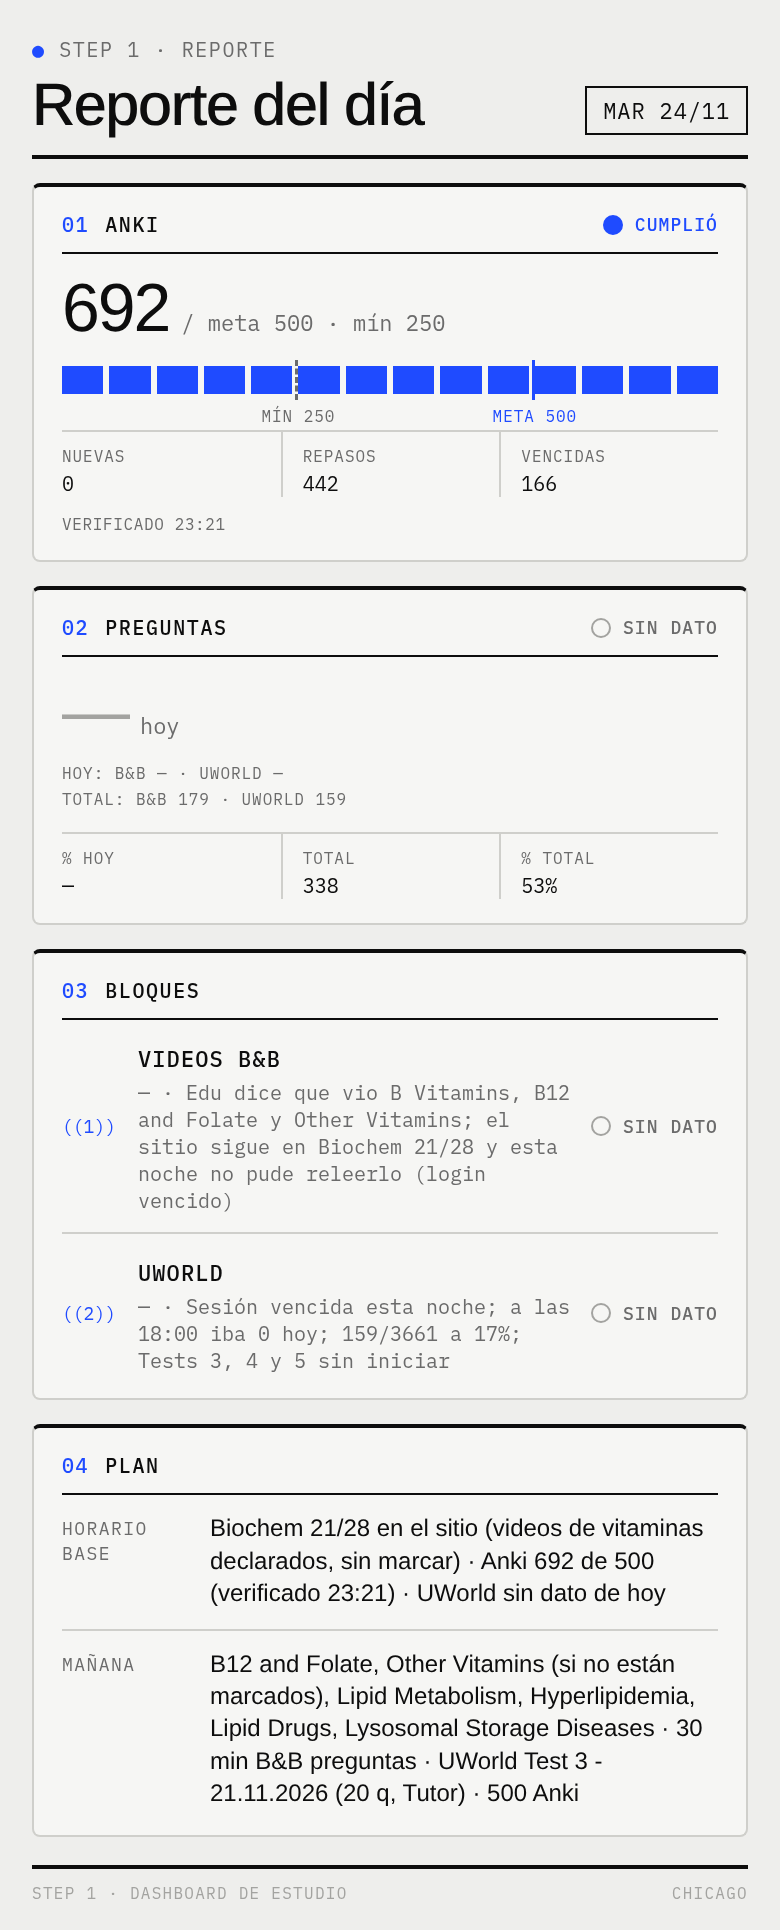
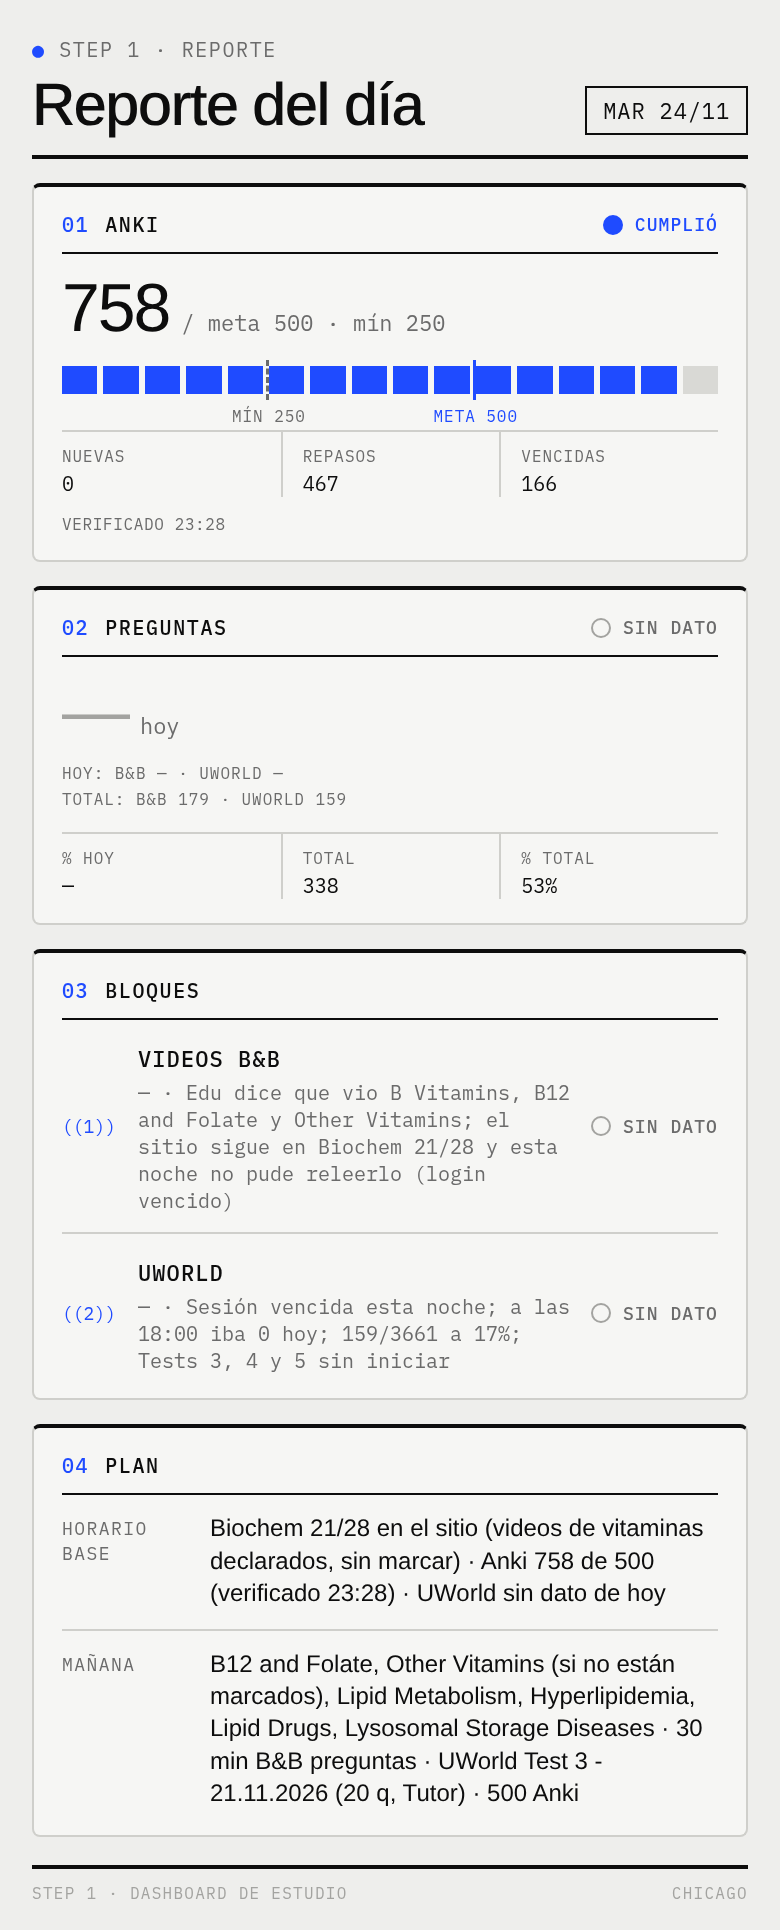
Reporte 2026-11-24: Anki verificado 758

diff --git a/index.html b/index.html
@@ -5,7 +5,7 @@
   index_backup_pre_cards_2026-11-17.html (versión teenage engineering).
   Estilo: capa "teenage engineering" al final del <style> (paneles con borde, numeración 00–10, marcadores ((n))).
   Regla: en pantalla NO se muestran notas de fuente/procedencia; solo el timestamp de #upd.
-  Fuentes (solo para mantenimiento): Anki = Mac "Eduardos MacBook Air" conectado; AnkiConnect v6 a las 24/11 23:21 (sync ok, luego una sola llamada multi). reviews=692, unique=442, new=0, review_cards=442 (is:review rated:1), introduced=128, rated:1:1=47, again presses=54 (stats HTML: "Studied 692 cards in 148.95 minutes today (12.91s/card). Again count: 54 (92.2% correct). Learn: 338, Review: 314, Relearn: 40, Filtered: 0."). is:due=166 (AnKing 166, Eduche 0). getDeckStats: AnKing new 43 / learn 3 / review 163; Eduche new 0 / learn 0 / review 0 (total_in_deck 0, no usado; vencidas de is:due). ANKI_HOY reviews=692, again=54, again_cards=47, again_pct=8 (conteo AnkiConnect 24/11 23:21). H["2026-11-22"]=274, H["2026-11-23"]=196, H["2026-11-24"]=692.
+  Fuentes (solo para mantenimiento): Anki = Mac "Eduardos MacBook Air" conectado; AnkiConnect v6 a las 24/11 23:28 (sync ok, luego una sola llamada multi). reviews=758, unique=467, new=0, review_cards=467 (is:review rated:1), introduced=153, rated:1:1=56, again presses=65 (stats HTML: "Studied 758 cards in 155.87 minutes today (12.34s/card). Again count: 65 (91.4% correct). Learn: 404, Review: 314, Relearn: 40, Filtered: 0."). is:due=166 (AnKing 166, Eduche 0). getDeckStats: AnKing new 43 / learn 3 / review 163; Eduche new 0 / learn 0 / review 0 (total_in_deck 0, no usado; vencidas de is:due). ANKI_HOY reviews=758, again=65, again_cards=56, again_pct=9 (conteo AnkiConnect 24/11 23:28). H["2026-11-22"]=274, H["2026-11-23"]=196, H["2026-11-24"]=758.
   B&B = no se pudo releer a las 24/11 18:00: https://www.boardsbeyond.com/dashboard redirigió a https://www.boardsbeyond.com/login. Cifras en pantalla = última lectura verificada 23/11 22:30 (reconfirmada 24/11 07:13): 174 de 3701, quiz 84.0%, Step 1-P 7%. Biochem 21/28, 141/140 a 87% (Quizzes 87.2%), siguiente B12 and Folate. Quizzes del 23/11: Phenylalanine and Tyrosine 3/5, Other Amino Acids 4/5 (más un 0/5 abierto sin responder, no tocado), Ammonia 3/5 luego 5/5, B Vitamins 5/5. Día 23/11: 25 respondidas, 20 correctas. TODAY_Q.bb = null (no se leyó el historial a las 24/11 18:00).
   UWorld = lectura 24/11 18:00 (Launch STEP 1 QBank solamente): QBank 159/3661, Question Score 17%, Test Count 2/6. Ronda actual: único completado #2 19/11 10/20 (50%). Sin iniciar: Test 3 (20 q), Test 4 (20 q), Test 5 - 23.11.2026 (19 q) y Test Semanal 1 (40 q). 0 preguntas contestadas el 24/11. TODAY_Q.uw = 0. UWSA 1–3 sin activar.
   Plan/horario: martes 24/11 = 7h17 (Anki 500, videos B&B 2h17 para cerrar Biochem: B12 & Folate, Other Vitamins, Lipid Metabolism, Hyperlipidemia, Lipid Drugs, Lysosomal Storage; si B Vitamins no está marcada, esa primero; 30 min preguntas B&B; 1h UWorld Test 3 de 20 q Tutor). Biochem en pantalla 21/28 según lectura 23/11 22:30 (no reconfirmado a las 24/11 18:00; login vencido).
@@ -339,7 +339,7 @@ details summary .lbl{margin-left:auto}
   <div><div class="brand"><span><i>●</i> step&nbsp;1</span><span>usmle</span><span>rev. 2026</span></div><h1>Inicio</h1></div>
   <div class="top-meta">
     <button type="button" id="refresh" aria-label="Refresh">↻ REFRESH</button>
-    <span id="upd">Actualizado 24/11 23:21</span>
+    <span id="upd">Actualizado 24/11 23:28</span>
   </div>
 </header>
 
@@ -350,12 +350,12 @@ details summary .lbl{margin-left:auto}
 <!-- ANKI HOY: anillo (data-done / data-goal) -->
 <section class="card ringwrap" id="s-anki">
   <h2 style="align-self:stretch"><span><em class="no">00</em>Anki hoy</span> <i>●</i></h2>
-  <div id="ring" data-done="692" data-goal="500"></div>
+  <div id="ring" data-done="758" data-goal="500"></div>
   <span class="badge" id="ringbadge"></span>
   <div class="kvs">
-    <div class="kv"><span>Distintas</span><b>442</b></div>
+    <div class="kv"><span>Distintas</span><b>467</b></div>
     <div class="kv"><span>Nuevas</span><b>0</b></div>
-    <div class="kv"><span>Repasos</span><b>442</b></div>
+    <div class="kv"><span>Repasos</span><b>467</b></div>
     <div class="kv"><span>Vencidas</span><b>166</b></div>
     <div class="kv" id="anki-again"></div>
   </div>
@@ -474,7 +474,7 @@ details summary .lbl{margin-left:auto}
 <!-- CONEXIONES: oculto en pantalla (hidden), se mantiene para los routines -->
 <section id="s-con" hidden>
 <table><tbody>
-<tr><td><b>Anki (MacBook Air)</b><br><small>AnkiConnect v6 a las 24/11 23:21 (tras sync). Hoy 692 revisiones (148.95 min, 12.91 s/card); 442 distintas, 0 nuevas, 442 repasos; introduced 128. is:due 166 (AnKing 166, Eduche 0). Again 54 (8%).</small></td><td><span class="pill ok">Conectado</span></td></tr>
+<tr><td><b>Anki (MacBook Air)</b><br><small>AnkiConnect v6 a las 24/11 23:28 (tras sync). Hoy 758 revisiones (155.87 min, 12.34 s/card); 467 distintas, 0 nuevas, 467 repasos; introduced 153. is:due 166 (AnKing 166, Eduche 0). Again 65 (9%).</small></td><td><span class="pill ok">Conectado</span></td></tr>
 <tr><td><b>UWorld</b><br><small>Lectura 24/11 18:00: 159/3661, 17%; Test 3, Test 4, Test 5 (19 q) y Semanal 1 sin iniciar. #2 10/20 (50%). UWSA sin activar. 0 preguntas hoy.</small></td><td><span class="pill ok">Conectado</span></td></tr>
 <tr><td><b>Boards &amp; Beyond</b><br><small>Login requerido a las 24/11 18:00 (también a las 07:09). Última lectura 23/11 22:30: 21/28, 174/3701 a 84.0%, Step 1 7%, siguiente B12 and Folate (B Vitamins quiz 5/5, marca incierta). TODAY_Q.bb no leído.</small></td><td><span class="pill wa">Sesión expirada</span></td></tr>
 <tr><td><b>Google Sheets (tracker)</b><br><small>Aún no conectado.</small></td><td><span class="pill wa">Sin conexión</span></td></tr>
@@ -578,7 +578,7 @@ function draw(){document.getElementById("seg").innerHTML=F.map(x=>`<button class
 /* fechas límite (cuenta regresiva en días, calculada) */
 const D={examen:"2027-04-30",uworld:"2027-04-29"};
 
-const H={"2026-10-31":44,"2026-11-02":73,"2026-11-03":87,"2026-11-04":4,"2026-11-05":229,"2026-11-07":226,"2026-11-10":205,"2026-11-11":310,"2026-11-12":346,"2026-11-13":303,"2026-11-14":552,"2026-11-15":239,"2026-11-16":430,"2026-11-17":635,"2026-11-18":624,"2026-11-19":172,"2026-11-20":0,"2026-11-21":837,"2026-11-22":274,"2026-11-23":196,"2026-11-24":692}; /* verificado 23:21 AnkiConnect */
+const H={"2026-10-31":44,"2026-11-02":73,"2026-11-03":87,"2026-11-04":4,"2026-11-05":229,"2026-11-07":226,"2026-11-10":205,"2026-11-11":310,"2026-11-12":346,"2026-11-13":303,"2026-11-14":552,"2026-11-15":239,"2026-11-16":430,"2026-11-17":635,"2026-11-18":624,"2026-11-19":172,"2026-11-20":0,"2026-11-21":837,"2026-11-22":274,"2026-11-23":196,"2026-11-24":758}; /* verificado 23:28 AnkiConnect */
 const key=d=>d.getFullYear()+"-"+String(d.getMonth()+1).padStart(2,"0")+"-"+String(d.getDate()).padStart(2,"0");
 
 /* histograma de cuadritos: 1 cuadrito = 50 respuestas; líneas META 500 y MÍNIMO 250 */
@@ -616,7 +616,7 @@ document.getElementById("cd-ex").textContent=D.examen?dd(D.examen):"—";documen
 document.getElementById("hitos").innerHTML=plan.filter(r=>r[2]!==1).slice(0,4).map(r=>`<div class="hito"><span class="f">${r[0]}</span><span>${r[1]}</span></div>`).join("")||"—";
 
 /* 00 Anki hoy · Again (solo valores ya observados; null = "—") */
-const ANKI_HOY={reviews:692, again:54, again_cards:47, again_pct:8};
+const ANKI_HOY={reviews:758, again:65, again_cards:56, again_pct:9};
 (function(){
   const el=document.getElementById("anki-again"); if(!el) return;
   const a=ANKI_HOY, V=x=>(x===null||x===undefined||x==="")?"—":x;
@@ -683,7 +683,7 @@ ${b.nota?`<p class="note">${b.nota}</p>`:""}`})();
 const REPORTS={
   "2026-11-24":{
   fecha:"mar 24/11",
-  anki:{hechas:692, meta:500, min:250, nuevas:0, repasos:442, vencidas:166, estado:"ok", nota:"verificado 23:21"},
+  anki:{hechas:758, meta:500, min:250, nuevas:0, repasos:467, vencidas:166, estado:"ok", nota:"verificado 23:28"},
   preg:{hoy:null, pct_hoy:null, total:null, pct_total:null,
         bb:{hoy:null, pct_hoy:null, total:179, pct_total:84.3},
         uw:{hoy:null, pct_hoy:null, total:159, pct_total:17},
@@ -692,7 +692,7 @@ const REPORTS={
     {n:"Videos B&B", valor:null, detalle:"Edu dice que vio B Vitamins, B12 and Folate y Other Vitamins; el sitio sigue en Biochem 21/28 y esta noche no pude releerlo (login vencido)", estado:"sd"},
     {n:"UWorld",     valor:null, detalle:"Sesión vencida esta noche; a las 18:00 iba 0 hoy; 159/3661 a 17%; Tests 3, 4 y 5 sin iniciar", estado:"sd"}
   ],
-  base:"Biochem 21/28 en el sitio (videos de vitaminas declarados, sin marcar) · Anki 692 de 500 (verificado 23:21) · UWorld sin dato de hoy",
+  base:"Biochem 21/28 en el sitio (videos de vitaminas declarados, sin marcar) · Anki 758 de 500 (verificado 23:28) · UWorld sin dato de hoy",
   manana:"B12 and Folate, Other Vitamins (si no están marcados), Lipid Metabolism, Hyperlipidemia, Lipid Drugs, Lysosomal Storage Diseases · 30 min B&B preguntas · UWorld Test 3 - 21.11.2026 (20 q, Tutor) · 500 Anki"
 },
   "2026-11-23":{
